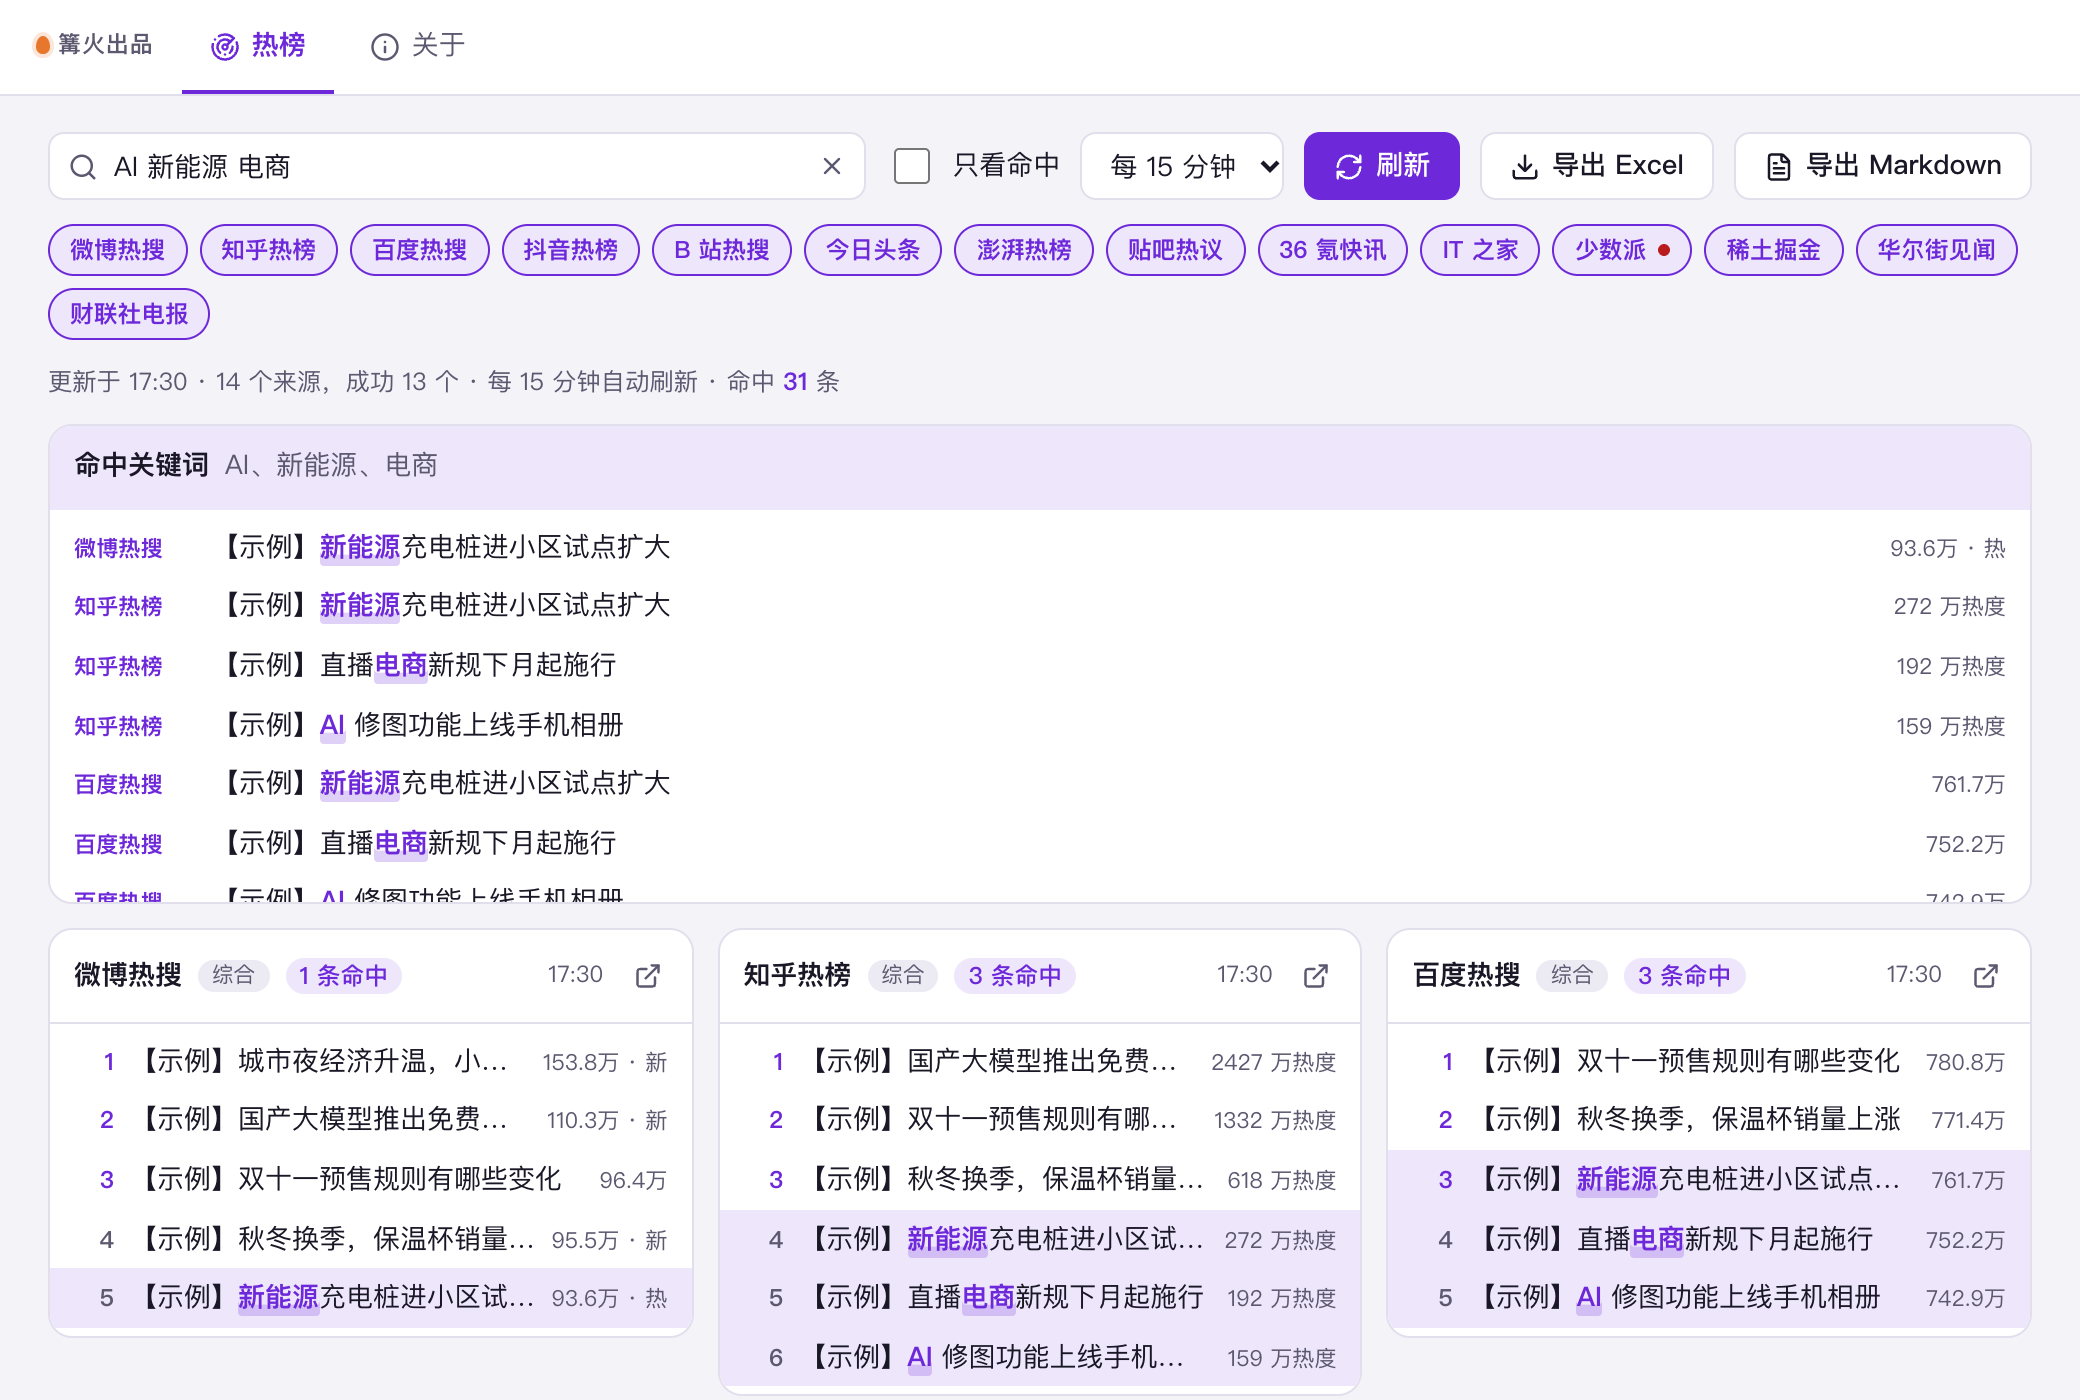
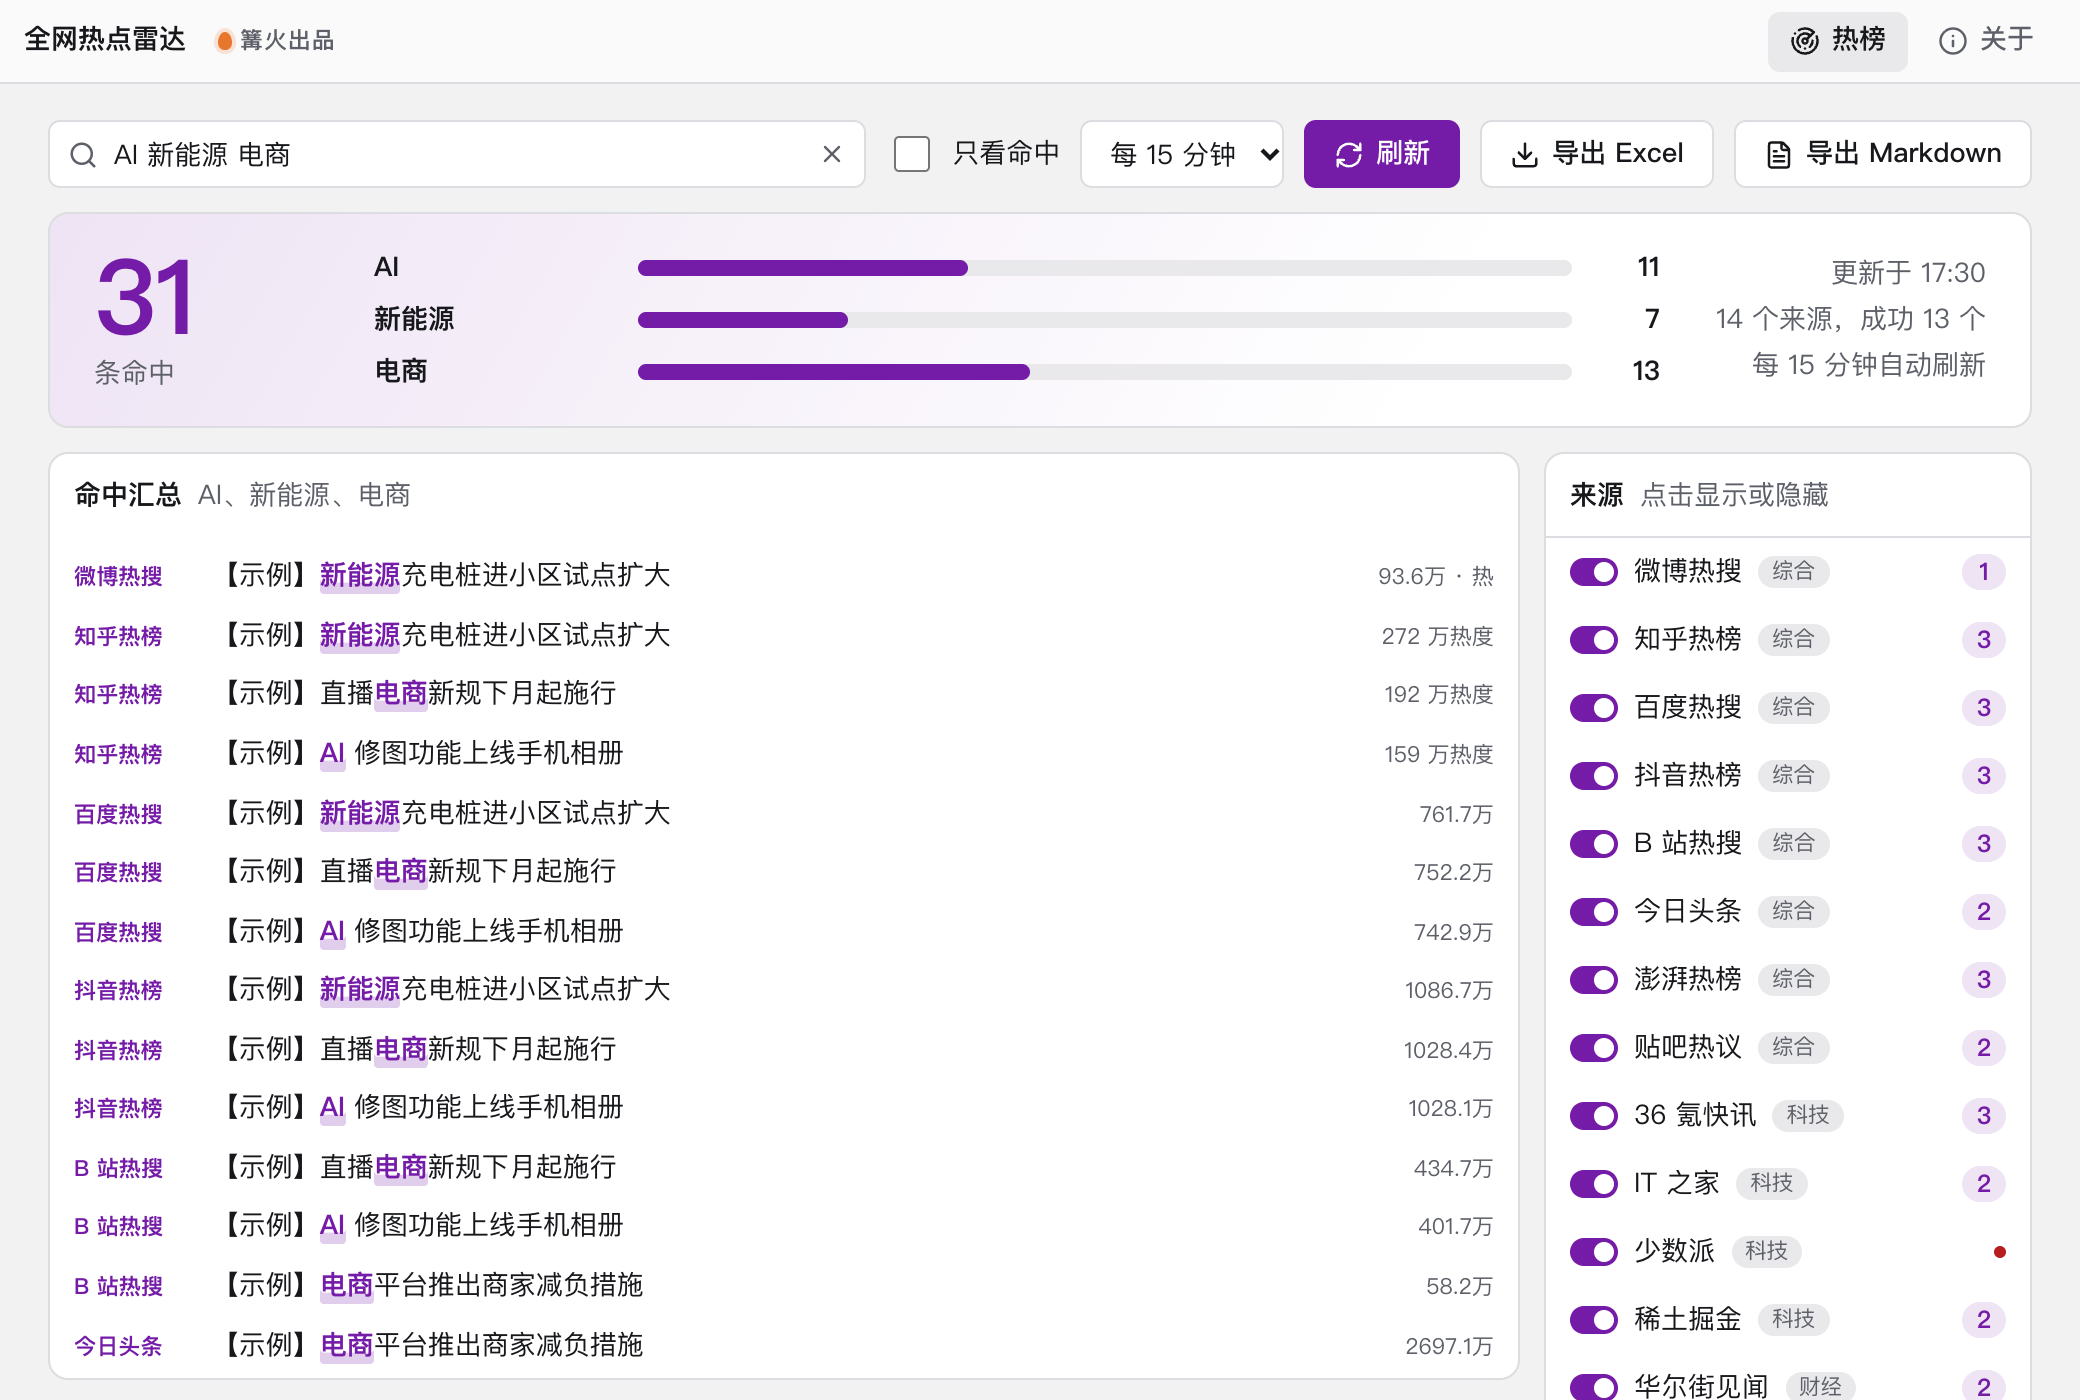
打磨界面：命中大数字与关键词分布、来源列表，升至 0.2.0

diff --git a/src/tool/Main.tsx b/src/tool/Main.tsx
@@ -196,23 +196,27 @@ export function Main({ preview }: { preview?: boolean }) {
         <button className="k-btn" onClick={() => doExport('md')}><FileText size={15} />导出 Markdown</button>
       </div>
 
-      <div className="tr-sources" role="group" aria-label="来源">
-        {SOURCES.map((s) => {
-          const on = prefs.enabled.includes(s.id);
-          const r = results[s.id];
-          return (
-            <button key={s.id} className={`k-chip${on ? ' on' : ''}`} aria-pressed={on} onClick={() => toggleSource(s.id)} title={on ? '点击隐藏这个来源' : '点击显示这个来源'}>
-              {s.name}{on && r && !r.ok && <span className="tr-dot" aria-label="抓取失败" />}
-            </button>
-          );
-        })}
-      </div>
-
-      <div className="tr-status k-muted" role="status">
-        {lastAt ? <>更新于 {fmtTime(lastAt).slice(11)} · {prefs.enabled.length} 个来源，成功 {okCount} 个</> : '正在加载…'}
-        {prefs.interval > 0 && <> · 每 {prefs.interval} 分钟自动刷新</>}
-        {keywords.length > 0 && <> · 命中 <b className="tr-strong">{hits.length}</b> 条{fresh.length > 0 && <>，<b className="tr-strong">新增 {fresh.length}</b></>}</>}
-      </div>
+      <section className="tr-hero" aria-label="概览">
+        <div className="tr-big">
+          <span className="tr-big-n k-num">{keywords.length ? hits.length : '—'}</span>
+          <span className="tr-big-l">条命中{fresh.length > 0 && <b className="tr-new">新增 {fresh.length}</b>}</span>
+        </div>
+        <div className="tr-kwcount" role="list" aria-label="各关键词命中数">
+          {keywords.length === 0 ? <p className="k-muted">在上方输入订阅关键词，命中的热点会汇总在这里</p> : keywords.map((k) => {
+            const n = hits.filter((h) => h.keywords.includes(k)).length;
+            return (
+              <div key={k} role="listitem" className="tr-kwrow">
+                <b className="tr-kwname">{k}</b>
+                <span className="tr-kwbar"><i style={{ width: `${hits.length ? Math.max(4, (n / hits.length) * 100) : 0}%` }} /></span>
+                <span className="k-num tr-kwn">{n}</span>
+              </div>
+            );
+          })}
+        </div>
+        <div className="tr-meta k-muted" role="status">
+          {lastAt ? <>更新于 {fmtTime(lastAt).slice(11)}<br />{prefs.enabled.length} 个来源，成功 {okCount} 个{prefs.interval > 0 && <><br />每 {prefs.interval} 分钟自动刷新</>}</> : '正在加载…'}
+        </div>
+      </section>
 
       {msg && (
         <div className={`k-notice ${msg.kind}`} role="alert">
@@ -223,21 +227,41 @@ export function Main({ preview }: { preview?: boolean }) {
         </div>
       )}
 
-      {keywords.length > 0 && hits.length > 0 && (
+      <div className="tr-cols">
         <section className="tr-hits k-panel" aria-label="命中关键词">
-          <header className="tr-card-hd"><b>命中关键词</b><span className="k-muted">{keywords.join('、')}</span></header>
-          <ul className="tr-list">
-            {hits.slice(0, 30).map((h) => (
-              <li key={`${h.source}|${h.item.id}`} className="tr-item hit">
-                <span className="tr-src">{sourceById(h.source)?.name}</span>
-                <button className="tr-title" title={h.item.title} onClick={() => openLink(h.item.url)}><Title text={h.item.title} keywords={keywords} /></button>
-                {freshIds.has(`${h.source}|${h.item.id}`) && <span className="k-st ok">新</span>}
-                {h.item.heat && <span className="tr-heat k-num">{h.item.heat}</span>}
-              </li>
-            ))}
-          </ul>
+          <header className="tr-card-hd"><b>命中汇总</b><span className="k-muted k-ellipsis">{keywords.length ? keywords.join('、') : '还没有订阅关键词'}</span></header>
+          {hits.length > 0 ? (
+            <ul className="tr-list">
+              {hits.slice(0, 30).map((h) => (
+                <li key={`${h.source}|${h.item.id}`} className="tr-item hit">
+                  <span className="tr-src">{sourceById(h.source)?.name}</span>
+                  <button className="tr-title" title={h.item.title} onClick={() => openLink(h.item.url)}><Title text={h.item.title} keywords={keywords} /></button>
+                  {freshIds.has(`${h.source}|${h.item.id}`) && <span className="k-st ok">新</span>}
+                  {h.item.heat && <span className="tr-heat k-num">{h.item.heat}</span>}
+                </li>
+              ))}
+            </ul>
+          ) : <p className="k-muted tr-none">{keywords.length ? '当前没有命中关键词的热点' : '输入关键词后，这里按热度汇总各平台的命中热点'}</p>}
         </section>
-      )}
+        <nav className="tr-rail k-panel" aria-label="来源">
+          <header className="tr-card-hd"><b>来源</b><span className="k-muted">点击显示或隐藏</span></header>
+          {SOURCES.map((s) => {
+            const on = prefs.enabled.includes(s.id);
+            const r = results[s.id];
+            const n = r ? r.items.filter((it) => matchKeywords(it.title, keywords).length > 0).length : 0;
+            return (
+              <button key={s.id} className={`tr-src-btn${on ? ' on' : ''}`} aria-pressed={on} onClick={() => toggleSource(s.id)} title={on ? '点击隐藏这个来源' : '点击显示这个来源'}>
+                <span className="tr-sw" aria-hidden />
+                <span className="k-ellipsis">{s.name}</span>
+                <span className="tr-kind">{s.kind}</span>
+                <span className="b-sp" />
+                {on && r && !r.ok && <span className="tr-dot" aria-label="抓取失败" />}
+                {on && n > 0 && <span className="tr-hitn k-num">{n}</span>}
+              </button>
+            );
+          })}
+        </nav>
+      </div>
 
       <div className="tr-grid">
         {prefs.enabled.map((id) => (

diff --git a/src/tool/tool.css b/src/tool/tool.css
@@ -6,10 +6,7 @@
 .tr-kw .k-input { padding-left: 32px; padding-right: 32px; height: 34px; }
 .tr-kw .k-icon-btn { position: absolute; right: 3px; }
 .tr .tr-sel { width: auto; flex: none; height: 34px; padding-right: 6px; }
-.tr-sources { display: flex; flex-wrap: wrap; gap: 6px; }
-.tr-sources .k-chip { padding: 3px 10px; font-size: .88em; }
-.tr-dot { width: 6px; height: 6px; border-radius: 50%; background: var(--err); }
-.tr-status { font-size: .9em; }
+.tr-dot { flex: none; width: 6px; height: 6px; border-radius: 50%; background: var(--err); }
 .tr-strong { color: var(--primary); }
 
 .tr-grid { display: grid; grid-template-columns: repeat(auto-fill, minmax(290px, 1fr)); gap: 12px; align-items: start; }
@@ -20,7 +17,6 @@
 .tr-time { font-size: .85em; }
 .tr-list { list-style: none; margin: 0; padding: 4px 0; overflow: auto; max-height: 344px; }
 .tr-hits .tr-list { max-height: 196px; }
-.tr-hits .tr-item.hit { background: none; }
 .tr-hits .tr-item.hit:hover { background: var(--chip); }
 .tr-hits .tr-card-hd { background: var(--primary-soft); border-bottom-color: transparent; }
 .tr-item { display: flex; align-items: baseline; gap: 8px; padding: 5px 12px; min-width: 0; }
@@ -39,3 +35,34 @@
 .tr-skel i { flex: 1; height: 12px; border-radius: 4px; background: var(--chip); }
 @media (prefers-reduced-motion: no-preference) { .tr-skel i { animation: tr-pulse 1.2s ease-in-out infinite alternate; } }
 @keyframes tr-pulse { to { opacity: .45; } }
+
+/* 概览：大数字 + 关键词命中分布 */
+.tr-hero { display: grid; grid-template-columns: auto minmax(0, 1fr) auto; gap: 28px; align-items: center; padding: 16px 22px; border-radius: var(--radius-lg); background: linear-gradient(120deg, var(--primary-soft), var(--surface) 70%); border: 1px solid var(--line); }
+.tr-big { display: flex; flex-direction: column; gap: 2px; min-width: 112px; }
+.tr-big-n { font-size: 52px; line-height: 1; font-weight: 800; color: var(--primary); letter-spacing: -.02em; }
+.tr-big-l { display: flex; align-items: center; gap: 8px; color: var(--muted); font-size: 1em; }
+.tr-new { color: var(--ok); background: var(--ok-soft); border-radius: 999px; padding: 1px 9px; font-size: .92em; }
+.tr-kwcount { display: grid; gap: 6px; min-width: 0; }
+.tr-kwrow { display: grid; grid-template-columns: minmax(4em, 9em) minmax(0, 1fr) 2.5em; gap: 10px; align-items: center; }
+.tr-kwname { overflow: hidden; text-overflow: ellipsis; white-space: nowrap; }
+.tr-kwbar { height: 8px; border-radius: 999px; background: var(--chip); overflow: hidden; }
+.tr-kwbar i { display: block; height: 100%; border-radius: 999px; background: var(--primary); transition: width .2s var(--ease); }
+.tr-kwn { text-align: right; font-weight: 700; }
+.tr-meta { line-height: 1.7; text-align: right; white-space: nowrap; }
+
+.tr-cols { display: grid; grid-template-columns: minmax(0, 1fr) 244px; gap: 12px; align-items: start; }
+.tr-hits .tr-list { max-height: 420px; }
+.tr-rail { display: flex; flex-direction: column; padding-bottom: 6px; }
+.tr-src-btn { display: flex; align-items: center; gap: 8px; min-height: 34px; padding: 0 12px; border: 0; background: none; color: var(--muted); cursor: pointer; text-align: left; transition: background .15s ease-out, color .15s ease-out; }
+.tr-src-btn:hover { background: var(--chip); }
+.tr-src-btn.on { color: var(--ink); }
+.tr-sw { flex: none; width: 24px; height: 14px; border-radius: 999px; background: var(--line-strong); position: relative; transition: background .15s ease-out; }
+.tr-sw::after { content: ""; position: absolute; top: 2px; left: 2px; width: 10px; height: 10px; border-radius: 50%; background: var(--surface); transition: transform .15s ease-out; }
+.tr-src-btn.on .tr-sw { background: var(--primary); }
+.tr-src-btn.on .tr-sw::after { transform: translateX(10px); }
+.tr-hitn { flex: none; min-width: 22px; text-align: center; font-size: .9em; font-weight: 700; color: var(--primary); background: var(--primary-soft); border-radius: 999px; padding: 0 6px; }
+.tr-grid { margin-top: 2px; }
+@media (max-width: 860px) { .tr-hero { grid-template-columns: 1fr; gap: 14px; } .tr-meta { text-align: left; } .tr-cols { grid-template-columns: 1fr; } }
+.tr-hits .tr-item.hit { background: none; }
+.tr-hits .tr-item.hit:hover { background: var(--chip); }
+.tr-hits .tr-card-hd { background: transparent; }

diff --git a/src/tool/core.ts b/src/tool/core.ts
@@ -350,6 +350,7 @@ export const SOURCES: SourceDef[] = [
   { id: 'thepaper', name: '澎湃热榜', kind: '综合', home: 'https://www.thepaper.cn/', fetch: async (get) => parseThepaper((await get('https://cache.thepaper.cn/contentapi/wwwIndex/rightSidebar')).text) },
   { id: 'tieba', name: '贴吧热议', kind: '综合', home: 'https://tieba.baidu.com/hottopic/browse/topicList', fetch: async (get) => parseTieba((await get('https://tieba.baidu.com/hottopic/browse/topicList')).text) },
   { id: '36kr', name: '36 氪快讯', kind: '科技', home: 'https://www.36kr.com/newsflashes', fetch: async (get, now) => parse36kr((await get('https://www.36kr.com/newsflashes')).text, now) },
+  // check-zh: 忽略（站点官方名称「IT 之家」）
   { id: 'ithome', name: 'IT 之家', kind: '科技', home: 'https://www.ithome.com/', fetch: async (get, now) => parseIthome((await get('https://www.ithome.com/list/')).text, now) },
   { id: 'sspai', name: '少数派', kind: '科技', home: 'https://sspai.com/', fetch: async (get, now) => parseSspai((await get(`https://sspai.com/api/v1/article/tag/page/get?limit=30&offset=0&created_at=${now}&tag=%E7%83%AD%E9%97%A8%E6%96%87%E7%AB%A0&released=false`)).text) },
   { id: 'juejin', name: '稀土掘金', kind: '科技', home: 'https://juejin.cn/hot/articles', fetch: async (get) => parseJuejin((await get('https://api.juejin.cn/content_api/v1/content/article_rank?category_id=1&type=hot&spider=0')).text) },

diff --git a/README.md b/README.md
@@ -31,10 +31,10 @@
 | 财经 | 华尔街见闻（快讯）、财联社电报 |
 
 1. 打开就会自动抓取一次，每个来源一张卡片，显示排名、标题、热度，点标题在浏览器里打开原文。
-2. 在顶部输入**订阅关键词**（空格、逗号、顿号都能分隔，例如 `AI 新能源 地震`），按回车生效。命中的标题会高亮，并在最上方「命中关键词」里汇总；刷新后新出现的命中会标「新」。
+2. 在顶部输入**订阅关键词**（空格、逗号、顿号都能分隔，例如 `AI 新能源 地震`），按回车生效。命中的标题会高亮，顶部概览会显示命中总数和各关键词的命中分布，下面的「命中汇总」列出命中的标题；刷新后新出现的命中会标「新」。
 3. 勾选「只看命中」，每张卡片只留下命中的条目。
 4. 「自动刷新」可选每 5 / 10 / 15 / 30 / 60 分钟，**最短 5 分钟**，避免频繁请求被网站限制。也可以随时点「刷新」。
-5. 点来源标签可以隐藏 / 显示该来源（至少保留一个）。某个来源抓取失败时卡片里显示原因和「重试」，不影响其他来源；标签上会出现红点。
+5. 点右侧「来源」列表里的开关可以隐藏 / 显示该来源（至少保留一个），每个来源右边显示命中条数。某个来源抓取失败时卡片里显示原因和「重试」，不影响其他来源；列表里会出现红点。
 6. 「导出 Excel」「导出 Markdown」把当前显示的来源导出到「下载/全网热点雷达」文件夹，文件名形如 `热点-20261023-1730.xlsx`。勾了「只看命中」就只导出命中的条目。
 
 **其他说明**

diff --git a/CHANGELOG.md b/CHANGELOG.md
@@ -1,5 +1,12 @@
 # 更新记录
 
+## 0.2.0
+
+- 界面重做：顶部用大数字显示命中总数，并按关键词画出命中分布条。
+- 「命中汇总」改为主列表，右侧新增「来源」列表：开关显示或隐藏，每个来源显示命中条数和失败红点。
+- 版式改为 d，主色改为 #741BA7。
+- 上架文案重写，补充使用场景。
+
 ## 0.1.0
 
 - 首个版本。
